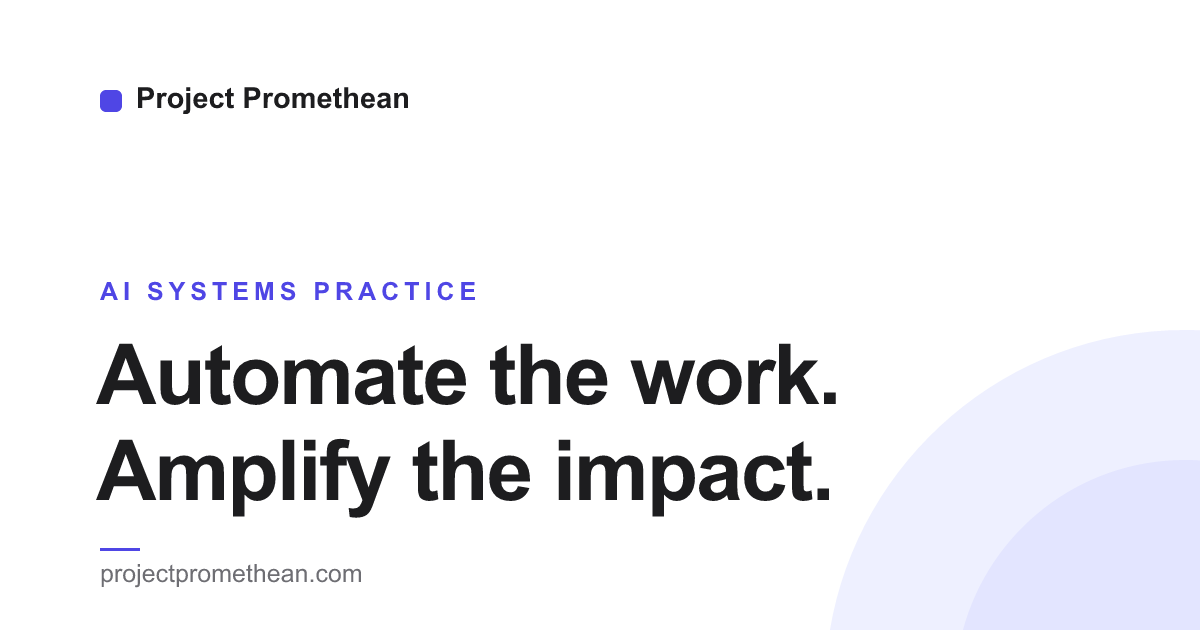
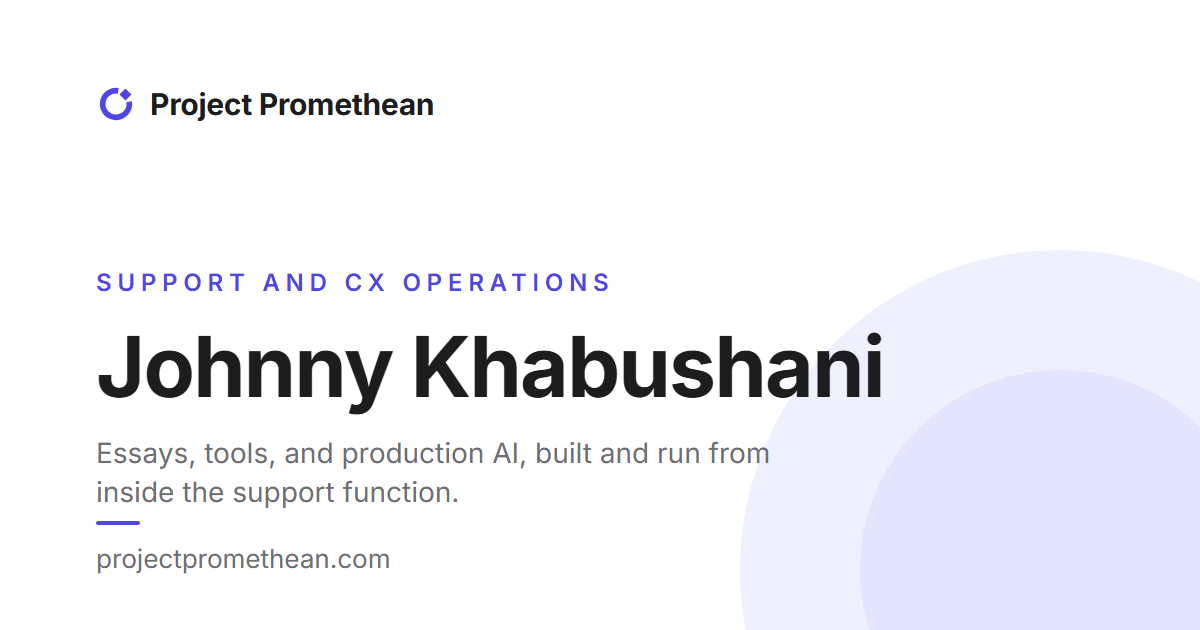
New brand mark: "the breach" ring-and-spark, wired sitewide
- Inline SVG mark in every nav masthead (21 pages), tinted via the accent variable
- favicon.svg replaced (old consulting-era gradient P); light/dark swap via prefers-color-scheme
- og-image.png rebuilt: the old card still said "AI Systems Practice / Automate the work",
  the retired consulting positioning; now the mark + support/CX authority framing

diff --git a/blog/5-workflows-to-automate.html b/blog/5-workflows-to-automate.html
@@ -37,7 +37,7 @@
 
   <nav class="nav scrolled" id="nav">
     <div class="nav-inner">
-      <a href="../" class="nav-logo">Project Promethean</a>
+      <a href="../" class="nav-logo"><svg viewBox="0 0 24 24" width="21" height="21" aria-hidden="true" style="color:var(--accent)"><path fill="currentColor" d="M13.68 2.45 A9.7 9.7 0 1 0 21.55 10.32 L18.2 10.91 A6.3 6.3 0 1 1 13.09 5.8 Z"/><path fill="currentColor" d="M17.66 2.74 L21.26 6.34 L17.66 9.94 L14.06 6.34 Z"/></svg>Project Promethean</a>
       <ul class="nav-links" id="nav-menu">
         <li><a href="../#about">About</a></li>
         <li><a href="index.html" style="color: var(--text)">Writing</a></li>

diff --git a/blog/fix-the-operation-before-you-add-the-ai.html b/blog/fix-the-operation-before-you-add-the-ai.html
@@ -37,7 +37,7 @@
 
   <nav class="nav scrolled" id="nav">
     <div class="nav-inner">
-      <a href="../" class="nav-logo">Project Promethean</a>
+      <a href="../" class="nav-logo"><svg viewBox="0 0 24 24" width="21" height="21" aria-hidden="true" style="color:var(--accent)"><path fill="currentColor" d="M13.68 2.45 A9.7 9.7 0 1 0 21.55 10.32 L18.2 10.91 A6.3 6.3 0 1 1 13.09 5.8 Z"/><path fill="currentColor" d="M17.66 2.74 L21.26 6.34 L17.66 9.94 L14.06 6.34 Z"/></svg>Project Promethean</a>
       <ul class="nav-links" id="nav-menu">
         <li><a href="../#about">About</a></li>
         <li><a href="index.html" style="color: var(--text)">Writing</a></li>

diff --git a/blog/how-i-built-an-internal-support-agent.html b/blog/how-i-built-an-internal-support-agent.html
@@ -58,7 +58,7 @@
 
   <nav class="nav scrolled" id="nav">
     <div class="nav-inner">
-      <a href="../" class="nav-logo">Project Promethean</a>
+      <a href="../" class="nav-logo"><svg viewBox="0 0 24 24" width="21" height="21" aria-hidden="true" style="color:var(--accent)"><path fill="currentColor" d="M13.68 2.45 A9.7 9.7 0 1 0 21.55 10.32 L18.2 10.91 A6.3 6.3 0 1 1 13.09 5.8 Z"/><path fill="currentColor" d="M17.66 2.74 L21.26 6.34 L17.66 9.94 L14.06 6.34 Z"/></svg>Project Promethean</a>
       <ul class="nav-links" id="nav-menu">
         <li><a href="../#about">About</a></li>
         <li><a href="index.html" style="color: var(--text)">Writing</a></li>

diff --git a/blog/how-to-pressure-test-a-support-ai-vendor.html b/blog/how-to-pressure-test-a-support-ai-vendor.html
@@ -38,7 +38,7 @@
 
   <nav class="nav scrolled" id="nav">
     <div class="nav-inner">
-      <a href="../" class="nav-logo">Project Promethean</a>
+      <a href="../" class="nav-logo"><svg viewBox="0 0 24 24" width="21" height="21" aria-hidden="true" style="color:var(--accent)"><path fill="currentColor" d="M13.68 2.45 A9.7 9.7 0 1 0 21.55 10.32 L18.2 10.91 A6.3 6.3 0 1 1 13.09 5.8 Z"/><path fill="currentColor" d="M17.66 2.74 L21.26 6.34 L17.66 9.94 L14.06 6.34 Z"/></svg>Project Promethean</a>
       <ul class="nav-links" id="nav-menu">
         <li><a href="../#about">About</a></li>
         <li><a href="index.html" style="color: var(--text)">Writing</a></li>

diff --git a/blog/how-to-tell-if-support-ai-is-working.html b/blog/how-to-tell-if-support-ai-is-working.html
@@ -37,7 +37,7 @@
 
   <nav class="nav scrolled" id="nav">
     <div class="nav-inner">
-      <a href="../" class="nav-logo">Project Promethean</a>
+      <a href="../" class="nav-logo"><svg viewBox="0 0 24 24" width="21" height="21" aria-hidden="true" style="color:var(--accent)"><path fill="currentColor" d="M13.68 2.45 A9.7 9.7 0 1 0 21.55 10.32 L18.2 10.91 A6.3 6.3 0 1 1 13.09 5.8 Z"/><path fill="currentColor" d="M17.66 2.74 L21.26 6.34 L17.66 9.94 L14.06 6.34 Z"/></svg>Project Promethean</a>
       <ul class="nav-links" id="nav-menu">
         <li><a href="../#about">About</a></li>
         <li><a href="index.html" style="color: var(--text)">Writing</a></li>

diff --git a/blog/index.html b/blog/index.html
@@ -37,7 +37,7 @@
 
   <nav class="nav scrolled" id="nav">
     <div class="nav-inner">
-      <a href="../" class="nav-logo">Project Promethean</a>
+      <a href="../" class="nav-logo"><svg viewBox="0 0 24 24" width="21" height="21" aria-hidden="true" style="color:var(--accent)"><path fill="currentColor" d="M13.68 2.45 A9.7 9.7 0 1 0 21.55 10.32 L18.2 10.91 A6.3 6.3 0 1 1 13.09 5.8 Z"/><path fill="currentColor" d="M17.66 2.74 L21.26 6.34 L17.66 9.94 L14.06 6.34 Z"/></svg>Project Promethean</a>
       <ul class="nav-links" id="nav-menu">
         <li><a href="../#about">About</a></li>
         <li><a href="index.html" style="color: var(--text)">Writing</a></li>

diff --git a/blog/real-estate-ai-automation.html b/blog/real-estate-ai-automation.html
@@ -37,7 +37,7 @@
 
   <nav class="nav scrolled" id="nav">
     <div class="nav-inner">
-      <a href="../" class="nav-logo">Project Promethean</a>
+      <a href="../" class="nav-logo"><svg viewBox="0 0 24 24" width="21" height="21" aria-hidden="true" style="color:var(--accent)"><path fill="currentColor" d="M13.68 2.45 A9.7 9.7 0 1 0 21.55 10.32 L18.2 10.91 A6.3 6.3 0 1 1 13.09 5.8 Z"/><path fill="currentColor" d="M17.66 2.74 L21.26 6.34 L17.66 9.94 L14.06 6.34 Z"/></svg>Project Promethean</a>
       <ul class="nav-links" id="nav-menu">
         <li><a href="../#about">About</a></li>
         <li><a href="index.html" style="color: var(--text)">Writing</a></li>

diff --git a/blog/real-estate-tc-automation.html b/blog/real-estate-tc-automation.html
@@ -37,7 +37,7 @@
 
   <nav class="nav scrolled" id="nav">
     <div class="nav-inner">
-      <a href="../" class="nav-logo">Project Promethean</a>
+      <a href="../" class="nav-logo"><svg viewBox="0 0 24 24" width="21" height="21" aria-hidden="true" style="color:var(--accent)"><path fill="currentColor" d="M13.68 2.45 A9.7 9.7 0 1 0 21.55 10.32 L18.2 10.91 A6.3 6.3 0 1 1 13.09 5.8 Z"/><path fill="currentColor" d="M17.66 2.74 L21.26 6.34 L17.66 9.94 L14.06 6.34 Z"/></svg>Project Promethean</a>
       <ul class="nav-links" id="nav-menu">
         <li><a href="../#about">About</a></li>
         <li><a href="index.html" style="color: var(--text)">Writing</a></li>

diff --git a/blog/stop-answering-the-same-question-twice.html b/blog/stop-answering-the-same-question-twice.html
@@ -37,7 +37,7 @@
 
   <nav class="nav scrolled" id="nav">
     <div class="nav-inner">
-      <a href="../" class="nav-logo">Project Promethean</a>
+      <a href="../" class="nav-logo"><svg viewBox="0 0 24 24" width="21" height="21" aria-hidden="true" style="color:var(--accent)"><path fill="currentColor" d="M13.68 2.45 A9.7 9.7 0 1 0 21.55 10.32 L18.2 10.91 A6.3 6.3 0 1 1 13.09 5.8 Z"/><path fill="currentColor" d="M17.66 2.74 L21.26 6.34 L17.66 9.94 L14.06 6.34 Z"/></svg>Project Promethean</a>
       <ul class="nav-links" id="nav-menu">
         <li><a href="../#about">About</a></li>
         <li><a href="index.html" style="color: var(--text)">Writing</a></li>

diff --git a/blog/the-hard-part-was-never-the-model.html b/blog/the-hard-part-was-never-the-model.html
@@ -37,7 +37,7 @@
 
   <nav class="nav scrolled" id="nav">
     <div class="nav-inner">
-      <a href="../" class="nav-logo">Project Promethean</a>
+      <a href="../" class="nav-logo"><svg viewBox="0 0 24 24" width="21" height="21" aria-hidden="true" style="color:var(--accent)"><path fill="currentColor" d="M13.68 2.45 A9.7 9.7 0 1 0 21.55 10.32 L18.2 10.91 A6.3 6.3 0 1 1 13.09 5.8 Z"/><path fill="currentColor" d="M17.66 2.74 L21.26 6.34 L17.66 9.94 L14.06 6.34 Z"/></svg>Project Promethean</a>
       <ul class="nav-links" id="nav-menu">
         <li><a href="../#about">About</a></li>
         <li><a href="index.html" style="color: var(--text)">Writing</a></li>

diff --git a/blog/voice-to-text-real-estate-contract.html b/blog/voice-to-text-real-estate-contract.html
@@ -37,7 +37,7 @@
 
   <nav class="nav scrolled" id="nav">
     <div class="nav-inner">
-      <a href="../" class="nav-logo">Project Promethean</a>
+      <a href="../" class="nav-logo"><svg viewBox="0 0 24 24" width="21" height="21" aria-hidden="true" style="color:var(--accent)"><path fill="currentColor" d="M13.68 2.45 A9.7 9.7 0 1 0 21.55 10.32 L18.2 10.91 A6.3 6.3 0 1 1 13.09 5.8 Z"/><path fill="currentColor" d="M17.66 2.74 L21.26 6.34 L17.66 9.94 L14.06 6.34 Z"/></svg>Project Promethean</a>
       <ul class="nav-links" id="nav-menu">
         <li><a href="../#about">About</a></li>
         <li><a href="index.html" style="color: var(--text)">Writing</a></li>

diff --git a/blog/what-is-workflow-automation.html b/blog/what-is-workflow-automation.html
@@ -37,7 +37,7 @@
 
   <nav class="nav scrolled" id="nav">
     <div class="nav-inner">
-      <a href="../" class="nav-logo">Project Promethean</a>
+      <a href="../" class="nav-logo"><svg viewBox="0 0 24 24" width="21" height="21" aria-hidden="true" style="color:var(--accent)"><path fill="currentColor" d="M13.68 2.45 A9.7 9.7 0 1 0 21.55 10.32 L18.2 10.91 A6.3 6.3 0 1 1 13.09 5.8 Z"/><path fill="currentColor" d="M17.66 2.74 L21.26 6.34 L17.66 9.94 L14.06 6.34 Z"/></svg>Project Promethean</a>
       <ul class="nav-links" id="nav-menu">
         <li><a href="../#about">About</a></li>
         <li><a href="index.html" style="color: var(--text)">Writing</a></li>
